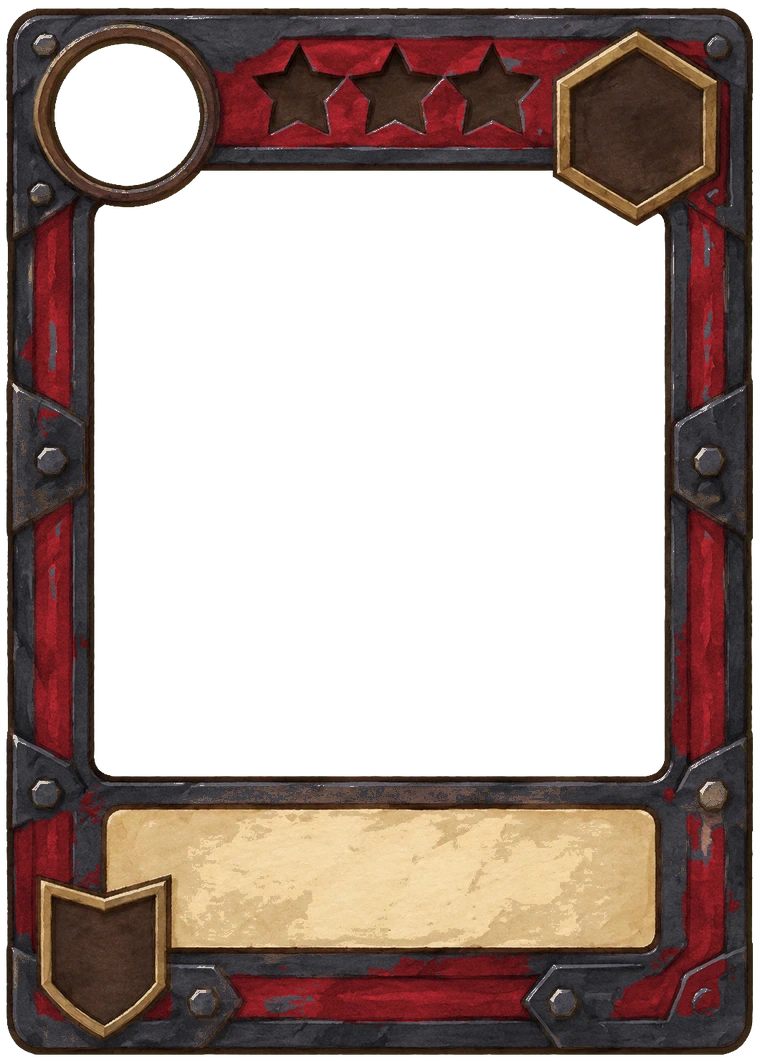
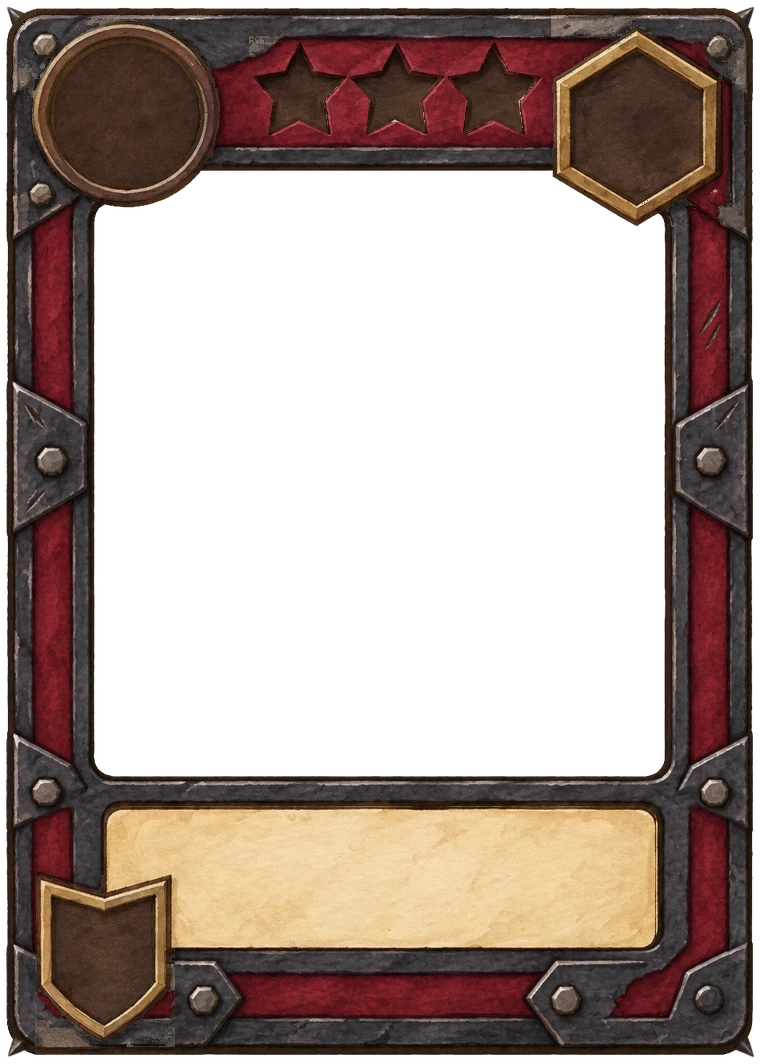
적 카드 틀 · 그림 창 배경 (DHL 제작) 넣음 — 임시 그림 교체
Claude-Session: https://claude.ai/code/session_01UsiBrPk9kwis6B71C6gGhW

Changed region(s): [[0.0, 0.0, 0.9987, 0.9925], [0.0, 0.1241, 0.7868, 0.9925]]

diff --git a/index.html b/index.html
@@ -6736,7 +6736,7 @@ html.lmB body .card.dz .dzi[data-w=neon] .dzb{background:url(assets/ui/card/f_ne
 html.lmB body .card.dz .dzi[data-w=sky] .dzb{background:url(assets/ui/card/f_sky.webp?v=f) 0 0/100% 100% no-repeat,url(assets/ui/card/bg_sky.webp?v=g) 50.4% 36.8%/77% 57.6% no-repeat!important}
 html.lmB body .card.dz .dzi[data-fog] .dzb{background:url(assets/ui/card/fog.webp?v=h) 0 0/100% 100% no-repeat!important}
 /* (DHL 11-21) 적 카드: 숯색 · 검붉은 틀(임시 — 네온 틀에서 색만 바꿈) · 번호 ∞(숫자 그림의 8을 눕힘) · 세계는 판마다 정해짐(문장은 동료와 같은 자리) */
-html.lmB body .card.dz .dzi[data-w][data-foe] .dzb{background:url(assets/ui/card/f_foe.webp?v=a) 0 0/100% 100% no-repeat,url(assets/ui/card/bg_foe.webp?v=b) 50.4% 36.8%/77% 57.6% no-repeat!important}
+html.lmB body .card.dz .dzi[data-w][data-foe] .dzb{background:url(assets/ui/card/f_foe.webp?v=b) 0 0/100% 100% no-repeat,url(assets/ui/card/bg_foe.webp?v=c) 50.4% 36.8%/77% 57.6% no-repeat!important}
 .card.dz .dzInf{display:block;width:86%;aspect-ratio:4/3;background:url(assets/ui/card/inf.webp?v=b) center/contain no-repeat;filter:drop-shadow(0 1px 0 #0008)}
 .card.dz .dzno.inf{display:flex!important;align-items:center;justify-content:center}
 /* 적 그림: 그림 창 전체를 칸으로 잡고 아래쪽에 세움(동료와 같은 눈높이) · 창 밖은 잘라 냄 — 큰 적(풍차 거인)은 FOE_FIT로 키워 창을 채움 */
